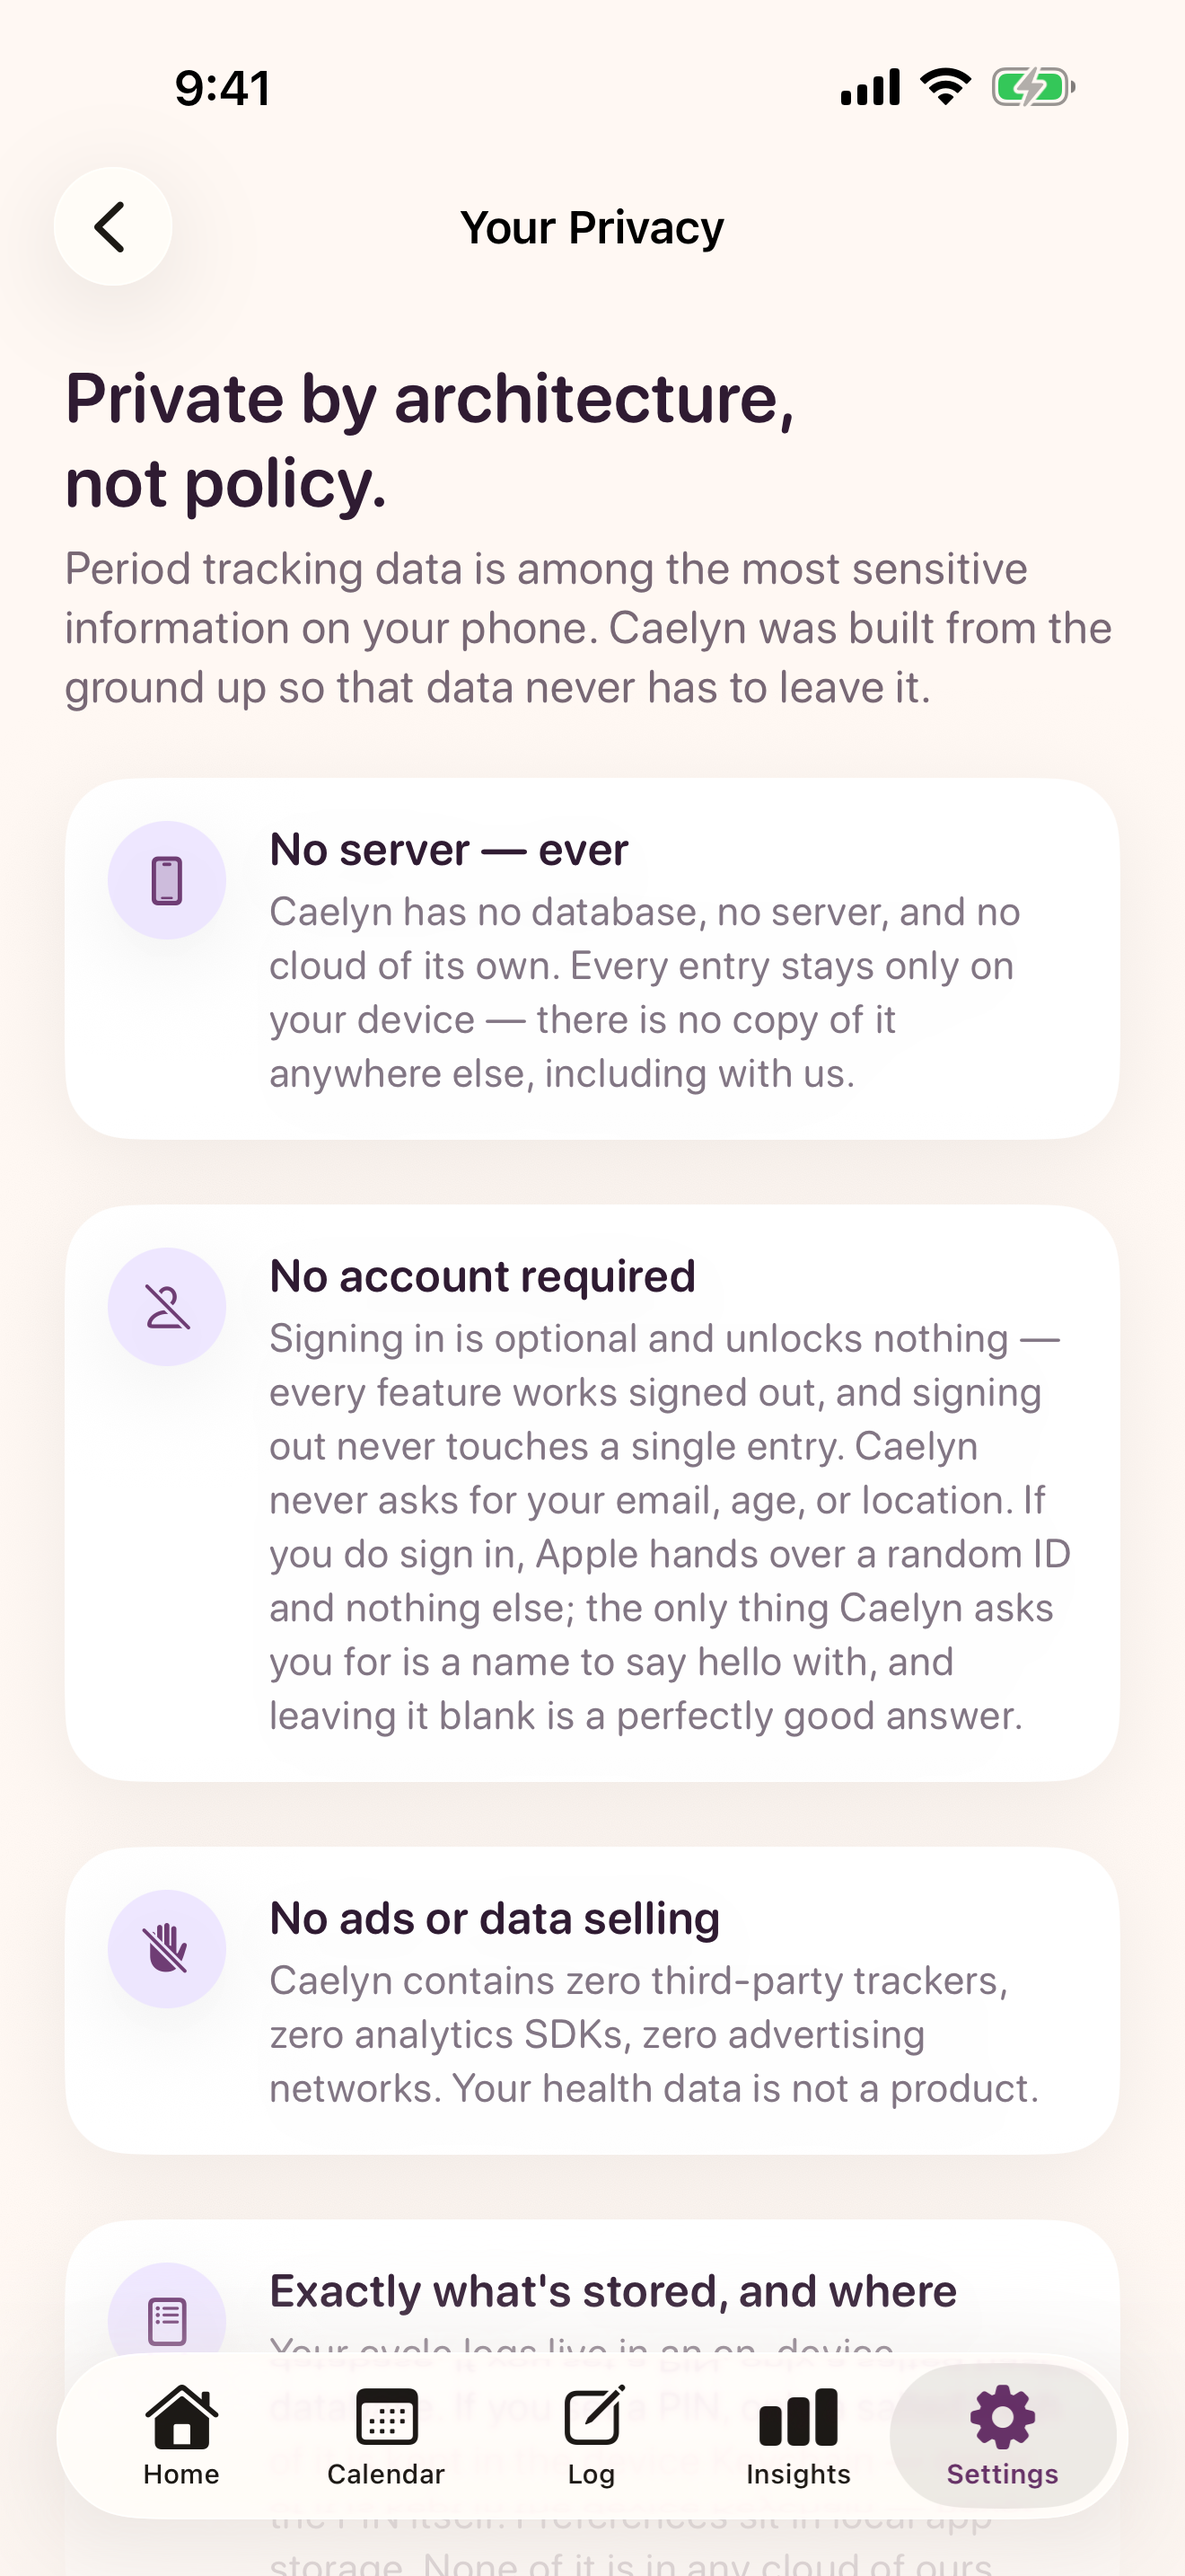
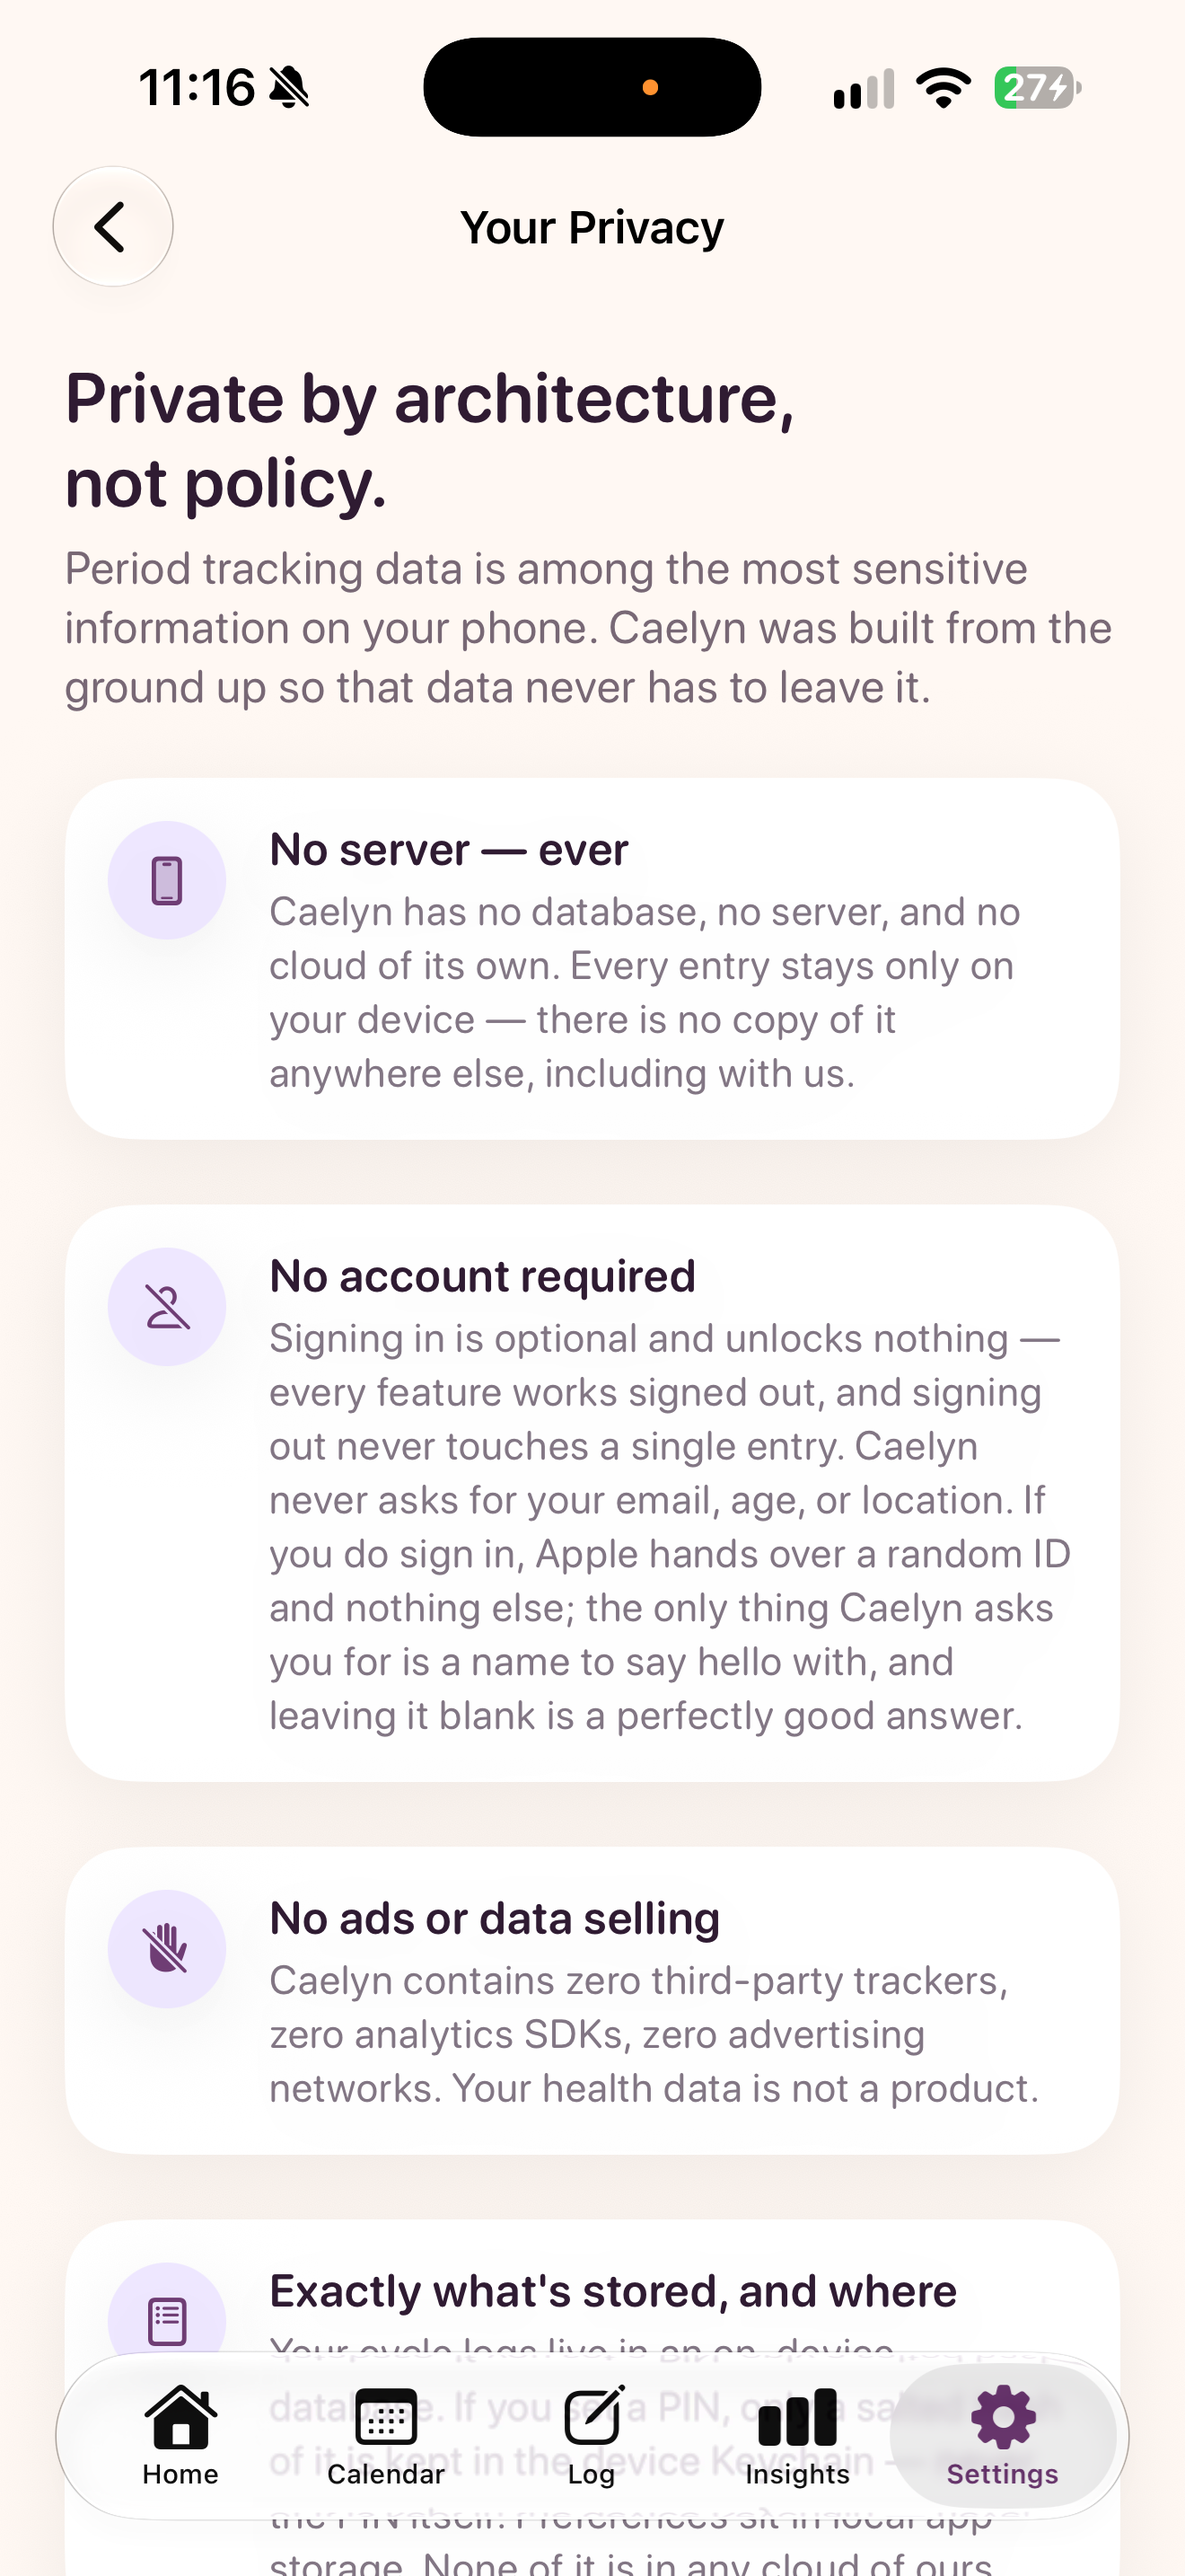
Capture the store screenshots on a real iPhone 17 Pro Max
I had said no phone here could produce the 6.9" slot's 1320x2868 and that the
simulator was therefore the only option. That was wrong. It was true of JOY, an
iPhone 15 Pro Max, which renders 1290x2796 — but SMILE is a 17 Pro Max and
renders 1320x2868 natively, exactly the required size. The eight iPhone frames
are now built from captures taken on it.

Three things had to be dealt with to get there.

SMILE was not in the provisioning profile and Xcode has no Apple ID signed in,
so the build failed on "No Accounts". Registering the device through
`-allowProvisioningDeviceRegistration` with an App Store Connect API key fixed
it; that touches the developer account's device list and nothing on the store
listing. The owner approved using the key for this.

The device was in dark appearance, so the first capture produced dark panels
floating on pale pink and sage grounds, which looks like a bug rather than a
design. `devicectl device settings appearance --mode light` sorts it.

And the capture caught the app saying something it should not have. The privacy
screen reads `CloudDataDeletion.cloudCopyMayExistNow`, which consults the
device's real sync preference — and SMILE has iCloud sync on. So the screenshot
truthfully announced a private iCloud copy of data that only ever existed in
memory, directly underneath a headline promising it never leaves the phone.
`--screenshot-mode` is supposed to be hermetic and this was a hole in it:
[…]

diff --git a/Caelyn/Services/Persistence.swift b/Caelyn/Services/Persistence.swift
@@ -47,6 +47,20 @@ enum Persistence {
     /// captures the exact error.
     static let storeFailedKey = "caelyn.storeFailed"
 
+    /// True when the app is running on the seeded, in-memory screenshot store.
+    ///
+    /// Everything that reports on storage has to know, because that container is
+    /// never mirrored: it has no cloud copy and cannot acquire one. Without this,
+    /// the privacy screen read the *device's* real sync preference and announced
+    /// a cloud copy of data that only exists in memory — which is how an App
+    /// Store capture ended up saying "because you switched on iCloud sync"
+    /// underneath a headline promising it never leaves the phone.
+    static var isDemoStore: Bool {
+        CommandLine.arguments.contains("--screenshot-mode")
+            || CommandLine.arguments.contains("--screenshot-paywall")
+            || CommandLine.arguments.contains("--ui-test-onboarding")
+    }
+
     /// Opt-in iCloud sync flag, set from Settings → Account & iCloud since 1.3.
     /// Off by default. Changing it takes effect on the next launch, because the
     /// container is built once, here. Read `isSyncActive` — not this — when

diff --git a/Caelyn/Services/Account/CloudDataDeletion.swift b/Caelyn/Services/Account/CloudDataDeletion.swift
@@ -68,7 +68,11 @@ enum CloudDataDeletion {
     /// did, not what the preference says, and the preference alone changes nothing
     /// until the next launch.
     static var cloudCopyMayExistNow: Bool {
-        Persistence.isSyncEnabled
+        // The screenshot store lives in memory and is never mirrored, so there is
+        // nothing of hers in any cloud however the device itself is configured.
+        if Persistence.isDemoStore { return false }
+
+        return Persistence.isSyncEnabled
             || Persistence.isSyncActive
             || cloudCopyMayExist
             || deletionIsPending

diff --git a/screenshots/store-v3/README.md b/screenshots/store-v3/README.md
@@ -104,16 +104,40 @@ cd _build && python3 build_iphone.py && python3 build_ipad.py
 Requires Pillow. Fonts: **New York** and **SF** ship with macOS; **SF Pro Display
 Black** comes from Apple's SF Pro download and lives in `~/Library/Fonts`.
 
-## Why these are simulator captures, not device captures
+## Where these come from
 
-Not a fallback — a requirement.
+**iPhone frames are captured on a real iPhone 17 Pro Max** ("SMILE"), which
+renders natively at exactly **1320×2868** — the 6.9" slot's required size. An
+earlier pass used the simulator on the grounds that no phone here could produce
+that size; that was wrong, and based on the iPhone 15 Pro Max, which renders
+1290×2796 and genuinely cannot.
 
-* **iPhone.** The App Store 6.9" slot is **1320×2868**. A physical iPhone 15 Pro
-  Max renders at **1290×2796** and cannot fill it. The simulator runs the same
-  binary and renders identically at the exact required size.
-* **iPad.** The 13" slot is **2064×2752**. The connected iPad is a 12.9"
-  4th-generation at **2048×2732**.
+Capturing on the device needed three things worth writing down:
 
-The data is not mocked up either: every frame is the real app running under
-`--screenshot-mode`, which seeds a believable five-cycle history into an
-in-memory store. Real screens, real layout, real type — invented history.
+* The device must be in the provisioning profile. SMILE was not, and Xcode has
+  no Apple ID signed in, so `xcodebuild` was run with `-allowProvisioningUpdates
+  -allowProvisioningDeviceRegistration` and an App Store Connect API key from
+  `~/.appstoreconnect/private_keys/`. That registers the device and regenerates
+  the development profiles; it touches nothing on the store listing.
+* The device must be in light appearance:
+  `xcrun devicectl device settings appearance --device <udid> --mode light`.
+  It was in dark mode, and dark panels on pale grounds look like a mistake.
+* The device's own iCloud sync state used to leak into the capture. See below.
+
+**iPad frames are still simulator captures**, and that one is unavoidable: the
+13" slot is **2064×2752** and the connected iPad is a 12.9" 4th-generation at
+**2048×2732**.
+
+The data is seeded, not mocked: every frame is the real app under
+`--screenshot-mode`, which populates an in-memory store with a believable
+five-cycle history. Real screens, real layout, real type — invented history.
+
+### One app change this forced
+
+`--screenshot-mode` is meant to be hermetic, but `CloudDataDeletion
+.cloudCopyMayExistNow` read the *device's* real sync preference. SMILE has
+iCloud sync on, so the privacy screen truthfully announced a cloud copy — of
+data that only exists in memory — directly under a headline promising it never
+leaves the phone. `Persistence.isDemoStore` now makes the demo store report what
+is actually true of it: an in-memory container is never mirrored and has no
+cloud copy, however the device around it is configured.
